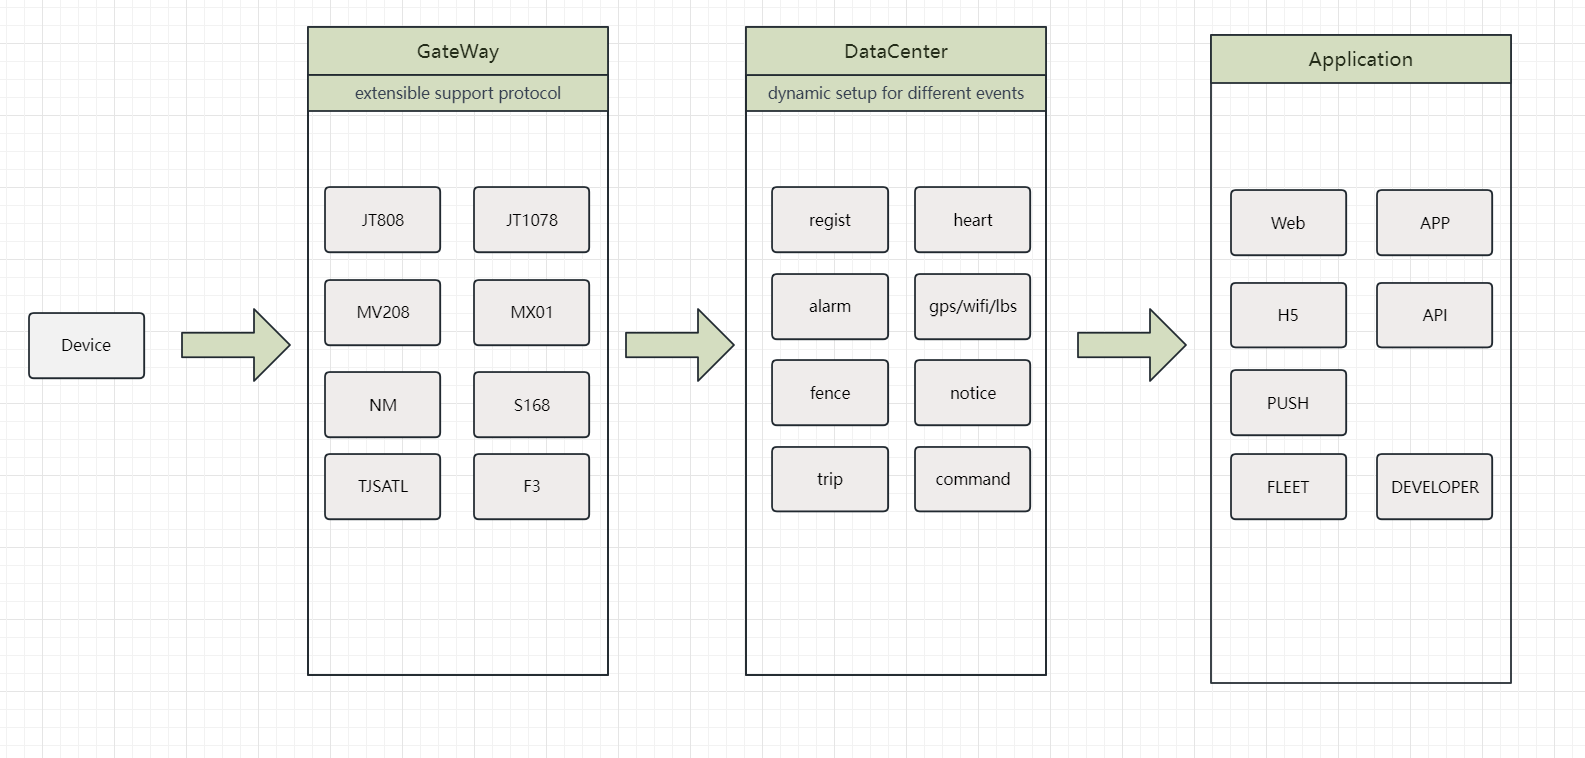
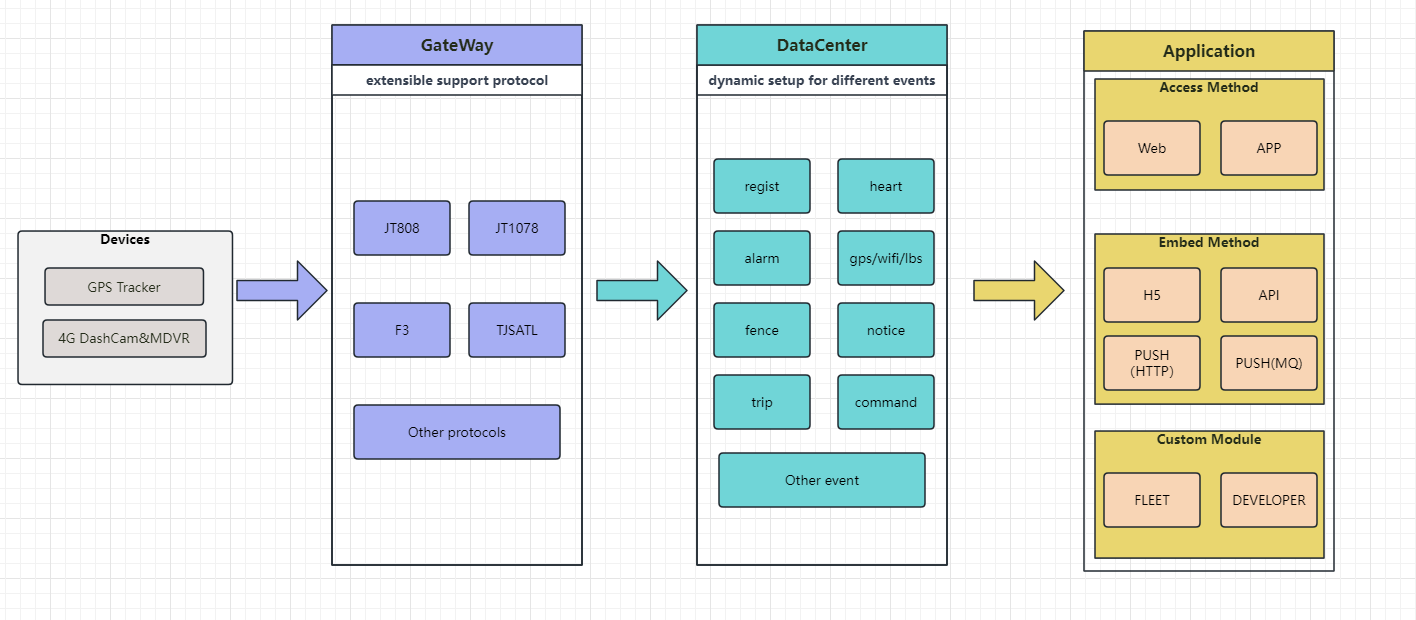
update Architecture.png

diff --git a/README.md b/README.md
@@ -7,31 +7,27 @@ This document is intended for software developers, testing engineers, and FAEs t
 
 # 2、Terms
 
-| Terms        | Description                                                            |
-|--------------|------------------------------------------------------------------------|
-| JT/T 808     | Communication protocol release by Ministry of Transport of China       |
-| JT/T 1078    | Video communication protocol release by Ministry of Transport of China |
-| MV208        |                                                                        |
-| MX01         |                                                                        |
-| NM           |                                                                        |
-| S168         |                                                                        |
-| TJSATL       |                                                                        |
-| F3           |                                                                        |
-| regist       | Device Initial Online                                                  |
-| heart        | Device Heartbeat                                                       |
-| alarm        | Device Sends Alarms                                                    |
-| gps/wifi/lbs | Device Transmits GPS/WIFI/LBS Location Information                     |
-| fence        | Change in Device-Fence Relationship                                    |
-| notice       | Device Event Alerts                                                    |
-| trip         | Vehicle Trip Calculation and Analysis                                  |
-| command      | Device Online&Offline  Commands                                        |
-| Web          | Accessing via the web                                                  |
-| APP          | Accessing via the app                                                  |
-| H5           | Offering H5 Access                                                          |
-| API          | Providing API Invocation Interface                                                             |
-| PUSH         |Pushing location and alarm data to other systems                                                   |
-| FLEET         | Expandable Business Module - Fleet Management                                                         |
-| DEVELOPER         | Expandable Business Module - Developers                                                           |
+| Terms        | Description                                                             |
+|--------------|-------------------------------------------------------------------------|
+| JT/T 808     | Communication protocol release by Ministry of Transport of China        |
+| JT/T 1078    | Video communication protocol release by Ministry of Transport of China  |
+| F3           |                                                                         |
+| TJSATL       |                                                                         |
+| regist       | Device Initial Online                                                   |
+| heart        | Device Heartbeat                                                        |
+| alarm        | Device Sends Alarms                                                     |
+| gps/wifi/lbs | Device Transmits GPS/WIFI/LBS Location Information                      |
+| fence        | Change in Device-Fence Relationship                                     |
+| notice       | Device Event Alerts                                                     |
+| trip         | Vehicle Trip Calculation and Analysis                                   |
+| command      | Device Online&Offline  Commands                                         |
+| Web          | Accessing via the web                                                   |
+| APP          | Accessing via the app                                                   |
+| H5           | Offering H5 Access                                                      |
+| API          | Providing API Invocation Interface                                      |
+| PUSH         | Pushing location and alarm data to other systems                        |
+| FLEET        | Expandable Business Module - Fleet Management                           |
+| DEVELOPER    | Expandable Business Module - Developers                                 |
 
 
 # 3、Architecture
